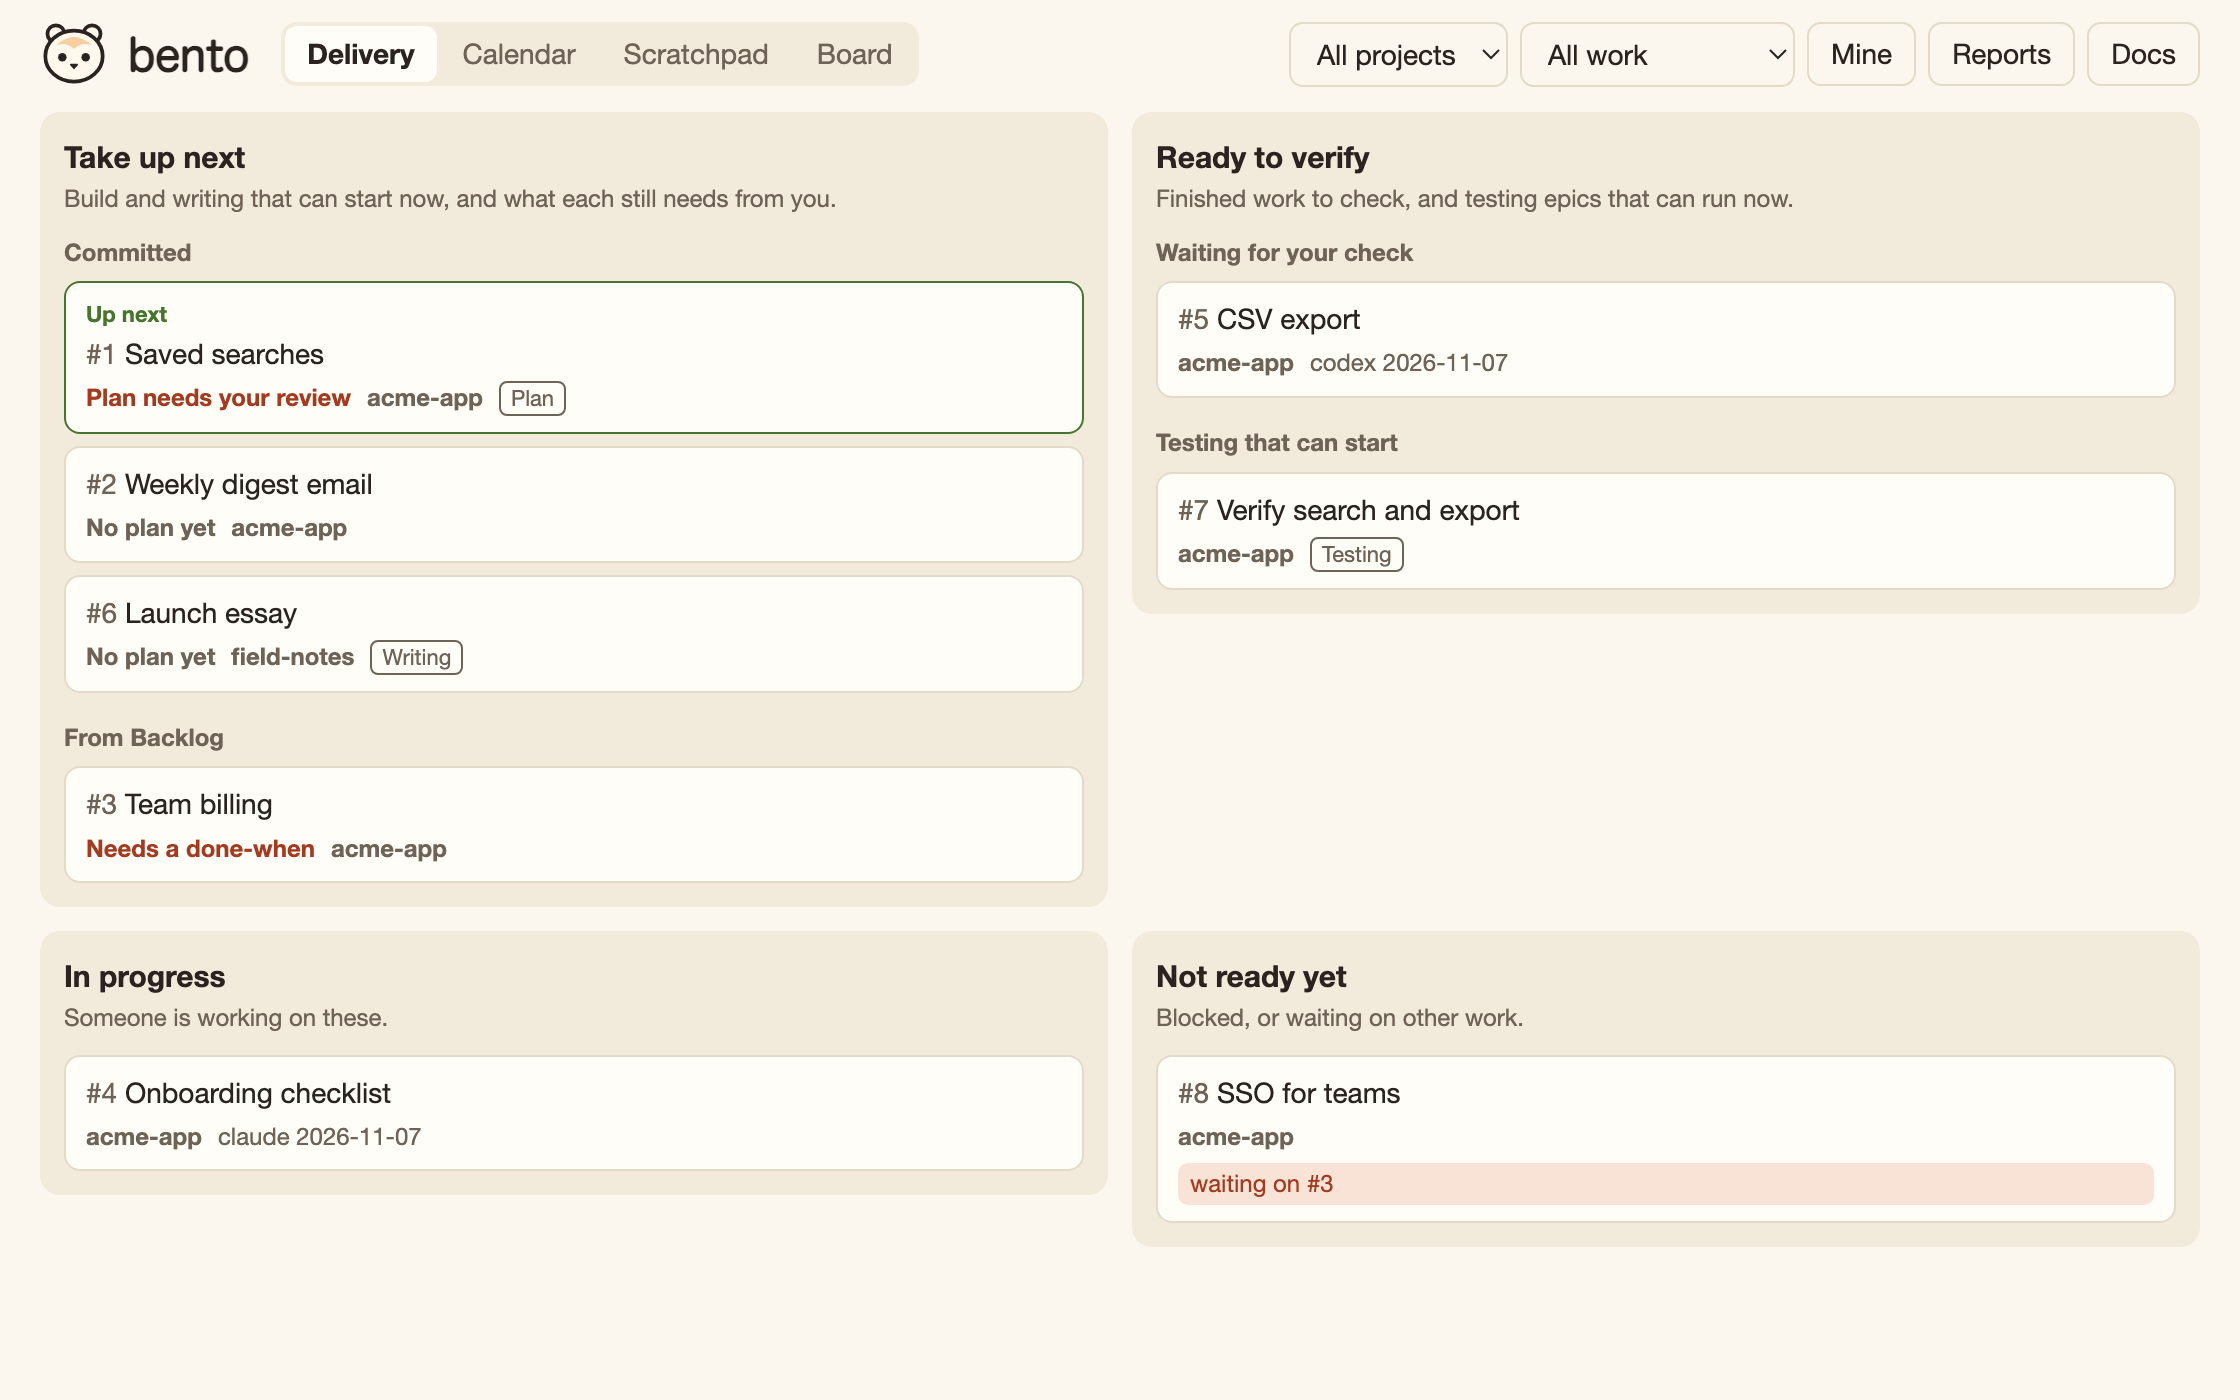
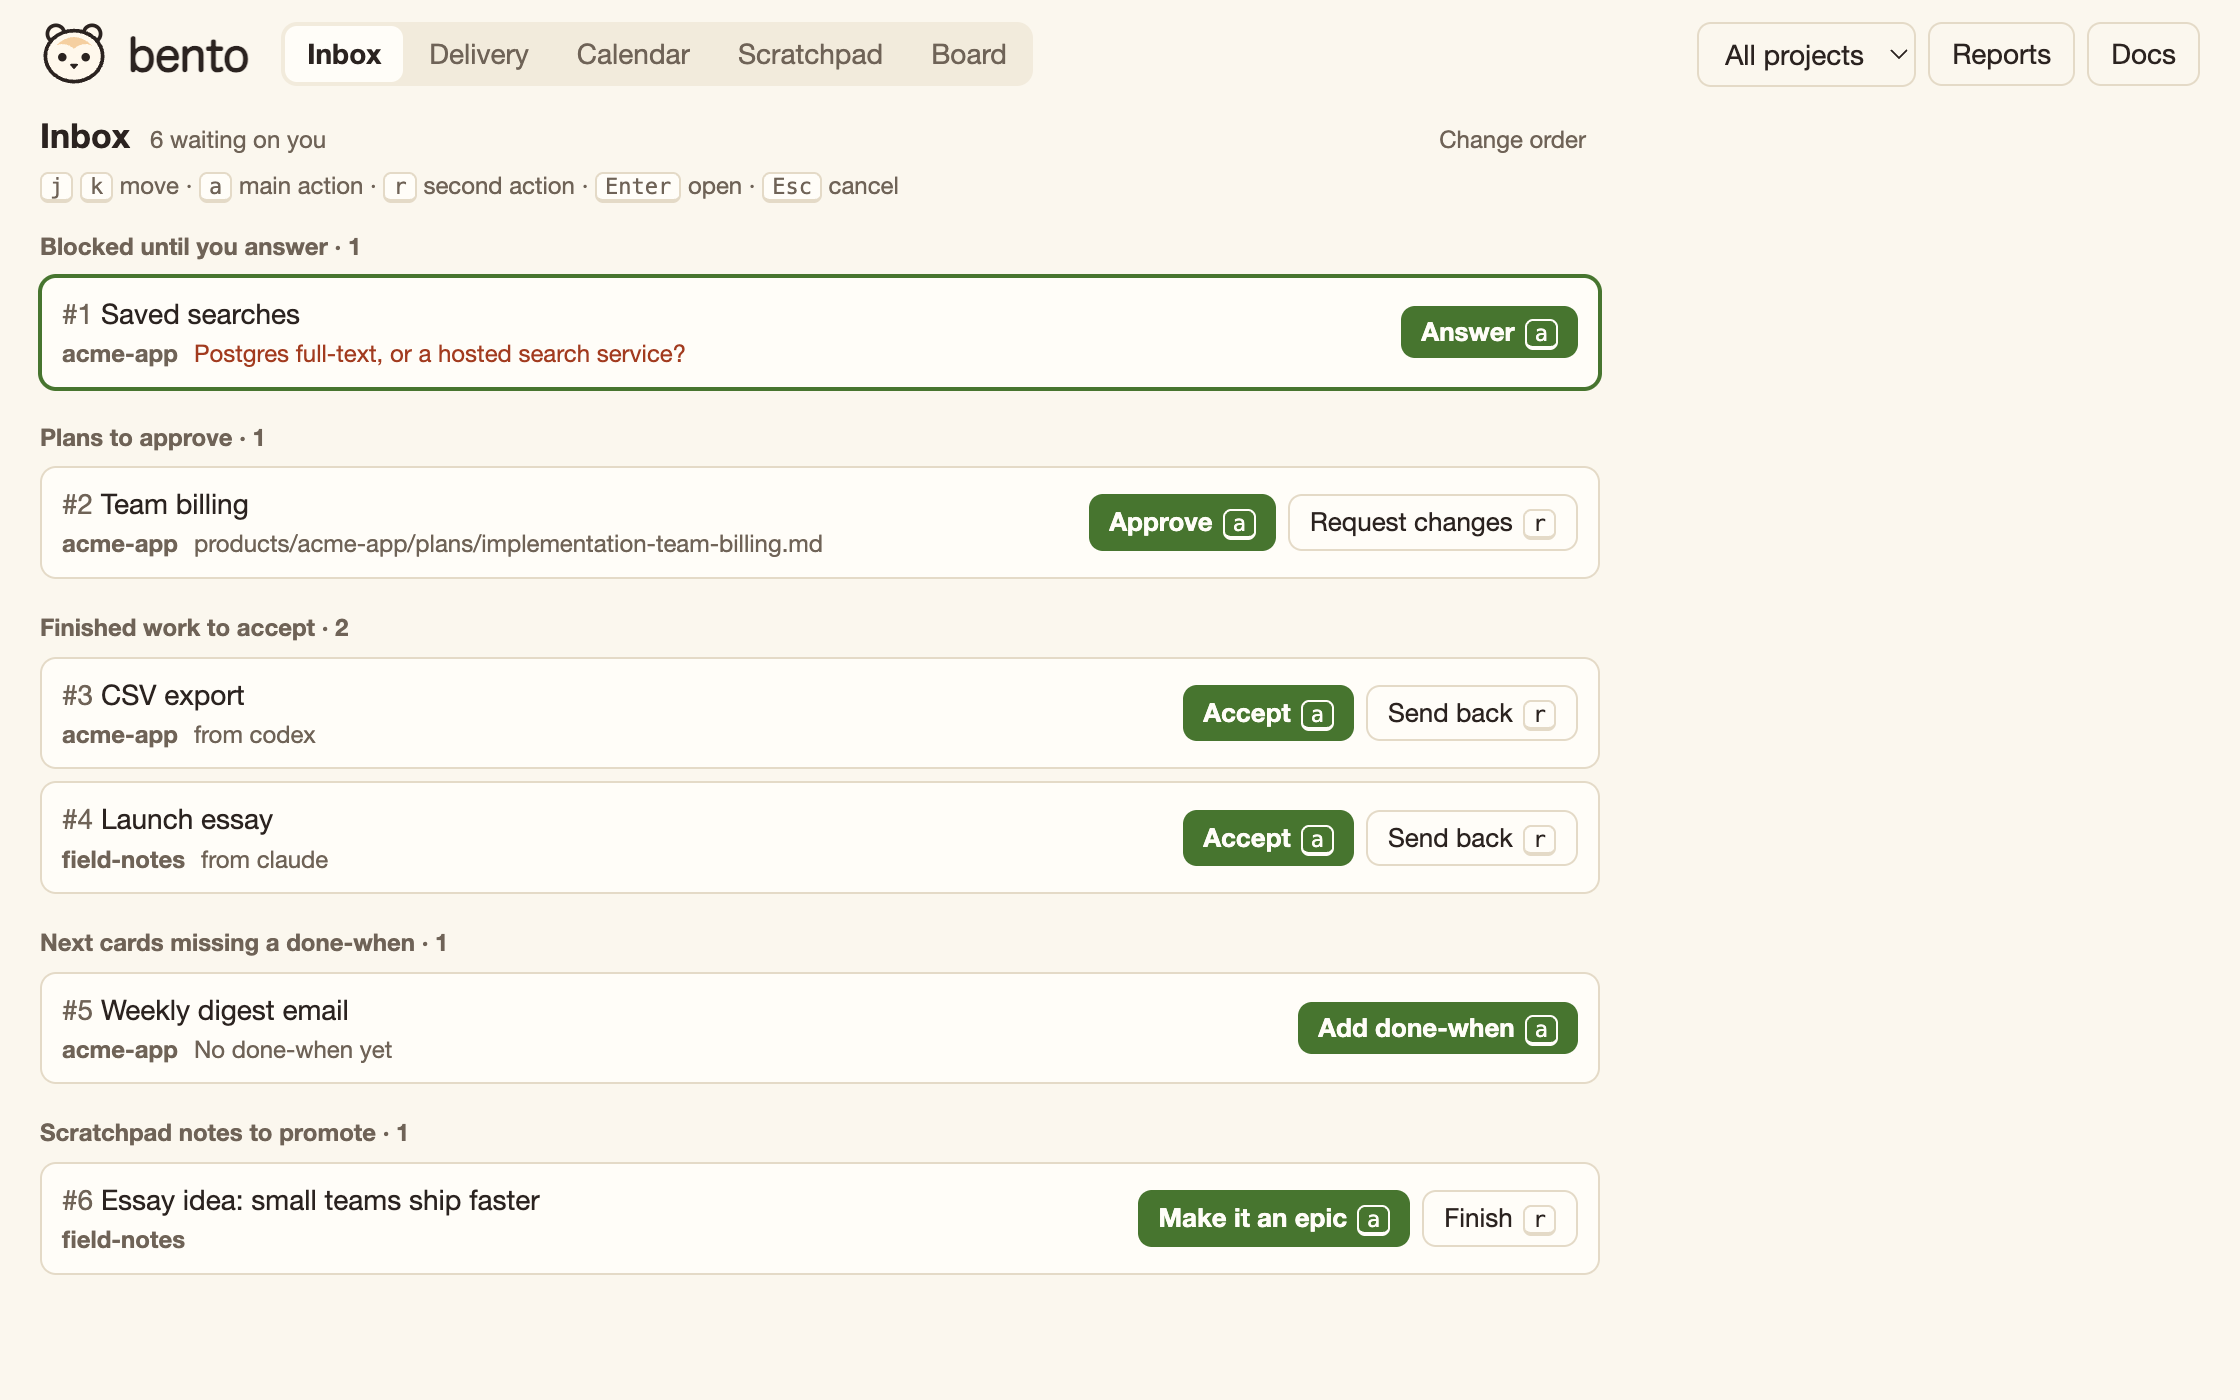
Show the Inbox in the board screenshot

diff --git a/website/index.html b/website/index.html
@@ -101,7 +101,7 @@
   </div>
 </main>
 <section class="shot">
-  <img src="board.png" width="2240" height="1400" alt="The Bento board's Delivery view, with epics to take up next and work ready to verify">
+  <img src="board.png" width="2240" height="1400" alt="The Bento Inbox: blocked work, plans to approve, and finished work to accept, in one queue">
 </section>
 <footer>Open source under the MIT license.</footer>
 </body>

diff --git a/README.md b/README.md
@@ -2,7 +2,7 @@
 
 A tidy little box for what's next.
 
-![The Bento board showing epics to take up next and work ready to verify](website/board.png)
+![The Bento Inbox: blocked work, plans to approve, and finished work to accept, in one queue](website/board.png)
 
 ## Why this exists
 
